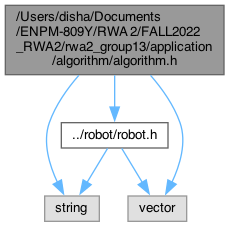
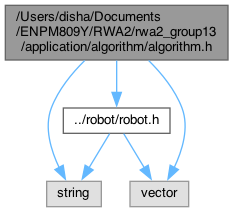
doxygen config file input and output relative path added

Changed region(s): [[0.0, 0.0, 1.0, 0.9906]]

diff --git a/RWA2/rwa2_group13/documentation/html/algorithm_8h.html b/RWA2/rwa2_group13/documentation/html/algorithm_8h.html
@@ -5,7 +5,7 @@
 <meta http-equiv="X-UA-Compatible" content="IE=11"/>
 <meta name="generator" content="Doxygen 1.9.5"/>
 <meta name="viewport" content="width=device-width, initial-scale=1"/>
-<title>rwa2_group13: /Users/disha/Documents/ENPM-809Y/RWA 2/FALL2022_RWA2/rwa2_group13/application/algorithm/algorithm.h File Reference</title>
+<title>rwa2_group13: /Users/disha/Documents/ENPM809Y/RWA2/rwa2_group13/application/algorithm/algorithm.h File Reference</title>
 <link href="tabs.css" rel="stylesheet" type="text/css"/>
 <script type="text/javascript" src="jquery.js"></script>
 <script type="text/javascript" src="dynsections.js"></script>
@@ -104,12 +104,12 @@ $(document).ready(function(){initNavTree('algorithm_8h.html',''); initResizable(
 </div><div class="textblock"><div class="dynheader">
 Include dependency graph for algorithm.h:</div>
 <div class="dyncontent">
-<div class="center"><img src="algorithm_8h__incl.png" border="0" usemap="#a_2_users_2disha_2_documents_2_e_n_p_m-809_y_2_r_w_a_012_2_f_a_l_l2022___r_w_a2_2rwa2__group13_2application_2algorithm_2algorithm_8h" alt=""/></div>
-<map name="a_2_users_2disha_2_documents_2_e_n_p_m-809_y_2_r_w_a_012_2_f_a_l_l2022___r_w_a2_2rwa2__group13_2application_2algorithm_2algorithm_8h" id="a_2_users_2disha_2_documents_2_e_n_p_m-809_y_2_r_w_a_012_2_f_a_l_l2022___r_w_a2_2rwa2__group13_2application_2algorithm_2algorithm_8h">
-<area shape="rect" title="Functions to implement the left and right hand rule approach, set the walls, generate goal and trace ..." alt="" coords="5,5,224,75"/>
-<area shape="rect" href="robot_8h_source.html" title=" " alt="" coords="61,123,168,148"/>
-<area shape="rect" title=" " alt="" coords="45,196,99,221"/>
-<area shape="rect" title=" " alt="" coords="128,196,187,221"/>
+<div class="center"><img src="algorithm_8h__incl.png" border="0" usemap="#a_2_users_2disha_2_documents_2_e_n_p_m809_y_2_r_w_a2_2rwa2__group13_2application_2algorithm_2algorithm_8h" alt=""/></div>
+<map name="a_2_users_2disha_2_documents_2_e_n_p_m809_y_2_r_w_a2_2rwa2__group13_2application_2algorithm_2algorithm_8h" id="a_2_users_2disha_2_documents_2_e_n_p_m809_y_2_r_w_a2_2rwa2__group13_2application_2algorithm_2algorithm_8h">
+<area shape="rect" title="Functions to implement the left and right hand rule approach, set the walls, generate goal and trace ..." alt="" coords="5,5,228,60"/>
+<area shape="rect" href="robot_8h_source.html" title=" " alt="" coords="63,108,170,133"/>
+<area shape="rect" title=" " alt="" coords="47,181,101,207"/>
+<area shape="rect" title=" " alt="" coords="130,181,189,207"/>
 </map>
 </div>
 </div>

diff --git a/RWA2/rwa2_group13/documentation/html/dir_638ef7d2d9bbc9093729c39ba06043f5.html b/RWA2/rwa2_group13/documentation/html/dir_638ef7d2d9bbc9093729c39ba06043f5.html
@@ -5,7 +5,7 @@
 <meta http-equiv="X-UA-Compatible" content="IE=11"/>
 <meta name="generator" content="Doxygen 1.9.5"/>
 <meta name="viewport" content="width=device-width, initial-scale=1"/>
-<title>rwa2_group13: /Users/disha/Documents/ENPM-809Y/RWA 2/FALL2022_RWA2/rwa2_group13/application/simulator Directory Reference</title>
+<title>rwa2_group13: /Users/disha/Documents/ENPM809Y/RWA2/rwa2_group13/application/simulator Directory Reference</title>
 <link href="tabs.css" rel="stylesheet" type="text/css"/>
 <script type="text/javascript" src="jquery.js"></script>
 <script type="text/javascript" src="dynsections.js"></script>
@@ -96,7 +96,7 @@ $(document).ready(function(){initNavTree('dir_638ef7d2d9bbc9093729c39ba06043f5.h
 <div class="dynheader">
 Directory dependency graph for simulator:</div>
 <div class="dyncontent">
-<div class="center"><img src="dir_638ef7d2d9bbc9093729c39ba06043f5_dep.png" border="0" usemap="#adir__638ef7d2d9bbc9093729c39ba06043f5__dep" alt="/Users/disha/Documents/ENPM-809Y/RWA 2/FALL2022_RWA2/rwa2_group13/application/simulator"/></div>
+<div class="center"><img src="dir_638ef7d2d9bbc9093729c39ba06043f5_dep.png" border="0" usemap="#adir__638ef7d2d9bbc9093729c39ba06043f5__dep" alt="/Users/disha/Documents/ENPM809Y/RWA2/rwa2_group13/application/simulator"/></div>
 <map name="adir__638ef7d2d9bbc9093729c39ba06043f5__dep" id="adir__638ef7d2d9bbc9093729c39ba06043f5__dep">
 <area shape="rect" href="dir_638ef7d2d9bbc9093729c39ba06043f5.html" title="simulator" alt="" coords="27,52,101,77"/>
 <area shape="rect" href="dir_d75c23162a2652451dce46d2e7e8aead.html" title="application" alt="" coords="16,16,112,88"/>

diff --git a/RWA2/rwa2_group13/documentation/html/dir_8788d5b9ef76e6c3c9e62a52e6c8fb62.html b/RWA2/rwa2_group13/documentation/html/dir_8788d5b9ef76e6c3c9e62a52e6c8fb62.html
@@ -5,7 +5,7 @@
 <meta http-equiv="X-UA-Compatible" content="IE=11"/>
 <meta name="generator" content="Doxygen 1.9.5"/>
 <meta name="viewport" content="width=device-width, initial-scale=1"/>
-<title>rwa2_group13: /Users/disha/Documents/ENPM-809Y/RWA 2/FALL2022_RWA2/rwa2_group13/application/algorithm Directory Reference</title>
+<title>rwa2_group13: /Users/disha/Documents/ENPM809Y/RWA2/rwa2_group13/application/algorithm Directory Reference</title>
 <link href="tabs.css" rel="stylesheet" type="text/css"/>
 <script type="text/javascript" src="jquery.js"></script>
 <script type="text/javascript" src="dynsections.js"></script>
@@ -96,7 +96,7 @@ $(document).ready(function(){initNavTree('dir_8788d5b9ef76e6c3c9e62a52e6c8fb62.h
 <div class="dynheader">
 Directory dependency graph for algorithm:</div>
 <div class="dyncontent">
-<div class="center"><img src="dir_8788d5b9ef76e6c3c9e62a52e6c8fb62_dep.png" border="0" usemap="#adir__8788d5b9ef76e6c3c9e62a52e6c8fb62__dep" alt="/Users/disha/Documents/ENPM-809Y/RWA 2/FALL2022_RWA2/rwa2_group13/application/algorithm"/></div>
+<div class="center"><img src="dir_8788d5b9ef76e6c3c9e62a52e6c8fb62_dep.png" border="0" usemap="#adir__8788d5b9ef76e6c3c9e62a52e6c8fb62__dep" alt="/Users/disha/Documents/ENPM809Y/RWA2/rwa2_group13/application/algorithm"/></div>
 <map name="adir__8788d5b9ef76e6c3c9e62a52e6c8fb62__dep" id="adir__8788d5b9ef76e6c3c9e62a52e6c8fb62__dep">
 <area shape="rect" href="dir_8788d5b9ef76e6c3c9e62a52e6c8fb62.html" title="algorithm" alt="" coords="27,52,101,77"/>
 <area shape="rect" href="dir_d75c23162a2652451dce46d2e7e8aead.html" title="application" alt="" coords="16,16,112,88"/>

diff --git a/RWA2/rwa2_group13/documentation/html/dir_e8d29c30eeee0fa0b24493a6a0331aff.html b/RWA2/rwa2_group13/documentation/html/dir_e8d29c30eeee0fa0b24493a6a0331aff.html
@@ -5,7 +5,7 @@
 <meta http-equiv="X-UA-Compatible" content="IE=11"/>
 <meta name="generator" content="Doxygen 1.9.5"/>
 <meta name="viewport" content="width=device-width, initial-scale=1"/>
-<title>rwa2_group13: /Users/disha/Documents/ENPM-809Y/RWA 2/FALL2022_RWA2/rwa2_group13/application/robot Directory Reference</title>
+<title>rwa2_group13: /Users/disha/Documents/ENPM809Y/RWA2/rwa2_group13/application/robot Directory Reference</title>
 <link href="tabs.css" rel="stylesheet" type="text/css"/>
 <script type="text/javascript" src="jquery.js"></script>
 <script type="text/javascript" src="dynsections.js"></script>
@@ -96,7 +96,7 @@ $(document).ready(function(){initNavTree('dir_e8d29c30eeee0fa0b24493a6a0331aff.h
 <div class="dynheader">
 Directory dependency graph for robot:</div>
 <div class="dyncontent">
-<div class="center"><img src="dir_e8d29c30eeee0fa0b24493a6a0331aff_dep.png" border="0" usemap="#adir__e8d29c30eeee0fa0b24493a6a0331aff__dep" alt="/Users/disha/Documents/ENPM-809Y/RWA 2/FALL2022_RWA2/rwa2_group13/application/robot"/></div>
+<div class="center"><img src="dir_e8d29c30eeee0fa0b24493a6a0331aff_dep.png" border="0" usemap="#adir__e8d29c30eeee0fa0b24493a6a0331aff__dep" alt="/Users/disha/Documents/ENPM809Y/RWA2/rwa2_group13/application/robot"/></div>
 <map name="adir__e8d29c30eeee0fa0b24493a6a0331aff__dep" id="adir__e8d29c30eeee0fa0b24493a6a0331aff__dep">
 <area shape="rect" href="dir_e8d29c30eeee0fa0b24493a6a0331aff.html" title="robot" alt="" coords="32,52,83,77"/>
 <area shape="rect" href="dir_d75c23162a2652451dce46d2e7e8aead.html" title="application" alt="" coords="16,16,100,88"/>

diff --git a/RWA2/rwa2_group13/documentation/html/dir_ab678a71f9a6e830b59bd24ad925a47c.html b/RWA2/rwa2_group13/documentation/html/dir_ab678a71f9a6e830b59bd24ad925a47c.html
@@ -5,7 +5,7 @@
 <meta http-equiv="X-UA-Compatible" content="IE=11"/>
 <meta name="generator" content="Doxygen 1.9.5"/>
 <meta name="viewport" content="width=device-width, initial-scale=1"/>
-<title>rwa2_group13: /Users/disha/Documents/ENPM-809Y/RWA 2/FALL2022_RWA2/rwa2_group13/application/cell Directory Reference</title>
+<title>rwa2_group13: /Users/disha/Documents/ENPM809Y/RWA2/rwa2_group13/application/cell Directory Reference</title>
 <link href="tabs.css" rel="stylesheet" type="text/css"/>
 <script type="text/javascript" src="jquery.js"></script>
 <script type="text/javascript" src="dynsections.js"></script>
@@ -96,7 +96,7 @@ $(document).ready(function(){initNavTree('dir_ab678a71f9a6e830b59bd24ad925a47c.h
 <div class="dynheader">
 Directory dependency graph for cell:</div>
 <div class="dyncontent">
-<div class="center"><img src="dir_ab678a71f9a6e830b59bd24ad925a47c_dep.png" border="0" usemap="#adir__ab678a71f9a6e830b59bd24ad925a47c__dep" alt="/Users/disha/Documents/ENPM-809Y/RWA 2/FALL2022_RWA2/rwa2_group13/application/cell"/></div>
+<div class="center"><img src="dir_ab678a71f9a6e830b59bd24ad925a47c_dep.png" border="0" usemap="#adir__ab678a71f9a6e830b59bd24ad925a47c__dep" alt="/Users/disha/Documents/ENPM809Y/RWA2/rwa2_group13/application/cell"/></div>
 <map name="adir__ab678a71f9a6e830b59bd24ad925a47c__dep" id="adir__ab678a71f9a6e830b59bd24ad925a47c__dep">
 <area shape="rect" href="dir_ab678a71f9a6e830b59bd24ad925a47c.html" title="cell" alt="" coords="36,52,79,77"/>
 <area shape="rect" href="dir_d75c23162a2652451dce46d2e7e8aead.html" title="application" alt="" coords="16,16,100,88"/>

diff --git a/RWA2/rwa2_group13/documentation/html/dir_d75c23162a2652451dce46d2e7e8aead.html b/RWA2/rwa2_group13/documentation/html/dir_d75c23162a2652451dce46d2e7e8aead.html
@@ -5,7 +5,7 @@
 <meta http-equiv="X-UA-Compatible" content="IE=11"/>
 <meta name="generator" content="Doxygen 1.9.5"/>
 <meta name="viewport" content="width=device-width, initial-scale=1"/>
-<title>rwa2_group13: /Users/disha/Documents/ENPM-809Y/RWA 2/FALL2022_RWA2/rwa2_group13/application Directory Reference</title>
+<title>rwa2_group13: /Users/disha/Documents/ENPM809Y/RWA2/rwa2_group13/application Directory Reference</title>
 <link href="tabs.css" rel="stylesheet" type="text/css"/>
 <script type="text/javascript" src="jquery.js"></script>
 <script type="text/javascript" src="dynsections.js"></script>
@@ -96,7 +96,7 @@ $(document).ready(function(){initNavTree('dir_d75c23162a2652451dce46d2e7e8aead.h
 <div class="dynheader">
 Directory dependency graph for application:</div>
 <div class="dyncontent">
-<div class="center"><img src="dir_d75c23162a2652451dce46d2e7e8aead_dep.png" border="0" usemap="#adir__d75c23162a2652451dce46d2e7e8aead__dep" alt="/Users/disha/Documents/ENPM-809Y/RWA 2/FALL2022_RWA2/rwa2_group13/application"/></div>
+<div class="center"><img src="dir_d75c23162a2652451dce46d2e7e8aead_dep.png" border="0" usemap="#adir__d75c23162a2652451dce46d2e7e8aead__dep" alt="/Users/disha/Documents/ENPM809Y/RWA2/rwa2_group13/application"/></div>
 <map name="adir__d75c23162a2652451dce46d2e7e8aead__dep" id="adir__d75c23162a2652451dce46d2e7e8aead__dep">
 <area shape="rect" href="dir_8788d5b9ef76e6c3c9e62a52e6c8fb62.html" title="algorithm" alt="" coords="272,100,347,125"/>
 <area shape="rect" href="dir_000001_000000.html" title="1" alt="" coords="314,74,322,89"/>

diff --git a/RWA2/rwa2_group13/documentation/html/classrwa2group13_1_1_algorithm.html b/RWA2/rwa2_group13/documentation/html/classrwa2group13_1_1_algorithm.html
@@ -289,8 +289,8 @@ void&#160;</td><td class="memItemRight" valign="bottom"><b>run_right</b> ()</td>
 </div>
 </div>
 <hr/>The documentation for this class was generated from the following files:<ul>
-<li>/Users/disha/Documents/ENPM-809Y/RWA 2/FALL2022_RWA2/rwa2_group13/application/algorithm/<a class="el" href="algorithm_8h_source.html">algorithm.h</a></li>
-<li>/Users/disha/Documents/ENPM-809Y/RWA 2/FALL2022_RWA2/rwa2_group13/application/algorithm/algorithm.cpp</li>
+<li>/Users/disha/Documents/ENPM809Y/RWA2/rwa2_group13/application/algorithm/<a class="el" href="algorithm_8h_source.html">algorithm.h</a></li>
+<li>/Users/disha/Documents/ENPM809Y/RWA2/rwa2_group13/application/algorithm/algorithm.cpp</li>
 </ul>
 </div><!-- contents -->
 </div><!-- doc-content -->

diff --git a/RWA2/rwa2_group13/documentation/html/class_simulator.html b/RWA2/rwa2_group13/documentation/html/class_simulator.html
@@ -773,8 +773,8 @@ false </dd></dl>
 </div>
 </div>
 <hr/>The documentation for this class was generated from the following files:<ul>
-<li>/Users/disha/Documents/ENPM-809Y/RWA 2/FALL2022_RWA2/rwa2_group13/application/simulator/<a class="el" href="simulator_8h_source.html">simulator.h</a></li>
-<li>/Users/disha/Documents/ENPM-809Y/RWA 2/FALL2022_RWA2/rwa2_group13/application/simulator/simulator.cpp</li>
+<li>/Users/disha/Documents/ENPM809Y/RWA2/rwa2_group13/application/simulator/<a class="el" href="simulator_8h_source.html">simulator.h</a></li>
+<li>/Users/disha/Documents/ENPM809Y/RWA2/rwa2_group13/application/simulator/simulator.cpp</li>
 </ul>
 </div><!-- contents -->
 </div><!-- doc-content -->

diff --git a/RWA2/rwa2_group13/documentation/html/classrwa2group13_1_1_robot.html b/RWA2/rwa2_group13/documentation/html/classrwa2group13_1_1_robot.html
@@ -299,8 +299,8 @@ Static Public Member Functions</h2></td></tr>
 </div>
 </div>
 <hr/>The documentation for this class was generated from the following files:<ul>
-<li>/Users/disha/Documents/ENPM-809Y/RWA 2/FALL2022_RWA2/rwa2_group13/application/robot/<a class="el" href="robot_8h_source.html">robot.h</a></li>
-<li>/Users/disha/Documents/ENPM-809Y/RWA 2/FALL2022_RWA2/rwa2_group13/application/robot/robot.cpp</li>
+<li>/Users/disha/Documents/ENPM809Y/RWA2/rwa2_group13/application/robot/<a class="el" href="robot_8h_source.html">robot.h</a></li>
+<li>/Users/disha/Documents/ENPM809Y/RWA2/rwa2_group13/application/robot/robot.cpp</li>
 </ul>
 </div><!-- contents -->
 </div><!-- doc-content -->

diff --git a/RWA2/rwa2_group13/documentation/html/classrwa2group13_1_1_cell.html b/RWA2/rwa2_group13/documentation/html/classrwa2group13_1_1_cell.html
@@ -257,8 +257,8 @@ Static Public Member Functions</h2></td></tr>
 </div>
 </div>
 <hr/>The documentation for this class was generated from the following files:<ul>
-<li>/Users/disha/Documents/ENPM-809Y/RWA 2/FALL2022_RWA2/rwa2_group13/application/cell/<a class="el" href="cell_8h_source.html">cell.h</a></li>
-<li>/Users/disha/Documents/ENPM-809Y/RWA 2/FALL2022_RWA2/rwa2_group13/application/cell/cell.cpp</li>
+<li>/Users/disha/Documents/ENPM809Y/RWA2/rwa2_group13/application/cell/<a class="el" href="cell_8h_source.html">cell.h</a></li>
+<li>/Users/disha/Documents/ENPM809Y/RWA2/rwa2_group13/application/cell/cell.cpp</li>
 </ul>
 </div><!-- contents -->
 </div><!-- doc-content -->

diff --git a/RWA2/rwa2_group13/documentation/html/structrwa2group13_1_1coordinates.html b/RWA2/rwa2_group13/documentation/html/structrwa2group13_1_1coordinates.html
@@ -110,7 +110,7 @@ char&#160;</td><td class="memItemRight" valign="bottom"><b>dir</b></td></tr>
 <tr class="separator:a5e3892a14b7eb54e0a87b02f1864aa3e"><td class="memSeparator" colspan="2">&#160;</td></tr>
 </table>
 <hr/>The documentation for this struct was generated from the following file:<ul>
-<li>/Users/disha/Documents/ENPM-809Y/RWA 2/FALL2022_RWA2/rwa2_group13/application/robot/<a class="el" href="robot_8h_source.html">robot.h</a></li>
+<li>/Users/disha/Documents/ENPM809Y/RWA2/rwa2_group13/application/robot/<a class="el" href="robot_8h_source.html">robot.h</a></li>
 </ul>
 </div><!-- contents -->
 </div><!-- doc-content -->

diff --git a/RWA2/rwa2_group13/documentation/html/algorithm_8h_source.html b/RWA2/rwa2_group13/documentation/html/algorithm_8h_source.html
@@ -5,7 +5,7 @@
 <meta http-equiv="X-UA-Compatible" content="IE=11"/>
 <meta name="generator" content="Doxygen 1.9.5"/>
 <meta name="viewport" content="width=device-width, initial-scale=1"/>
-<title>rwa2_group13: /Users/disha/Documents/ENPM-809Y/RWA 2/FALL2022_RWA2/rwa2_group13/application/algorithm/algorithm.h Source File</title>
+<title>rwa2_group13: /Users/disha/Documents/ENPM809Y/RWA2/rwa2_group13/application/algorithm/algorithm.h Source File</title>
 <link href="tabs.css" rel="stylesheet" type="text/css"/>
 <script type="text/javascript" src="jquery.js"></script>
 <script type="text/javascript" src="dynsections.js"></script>
